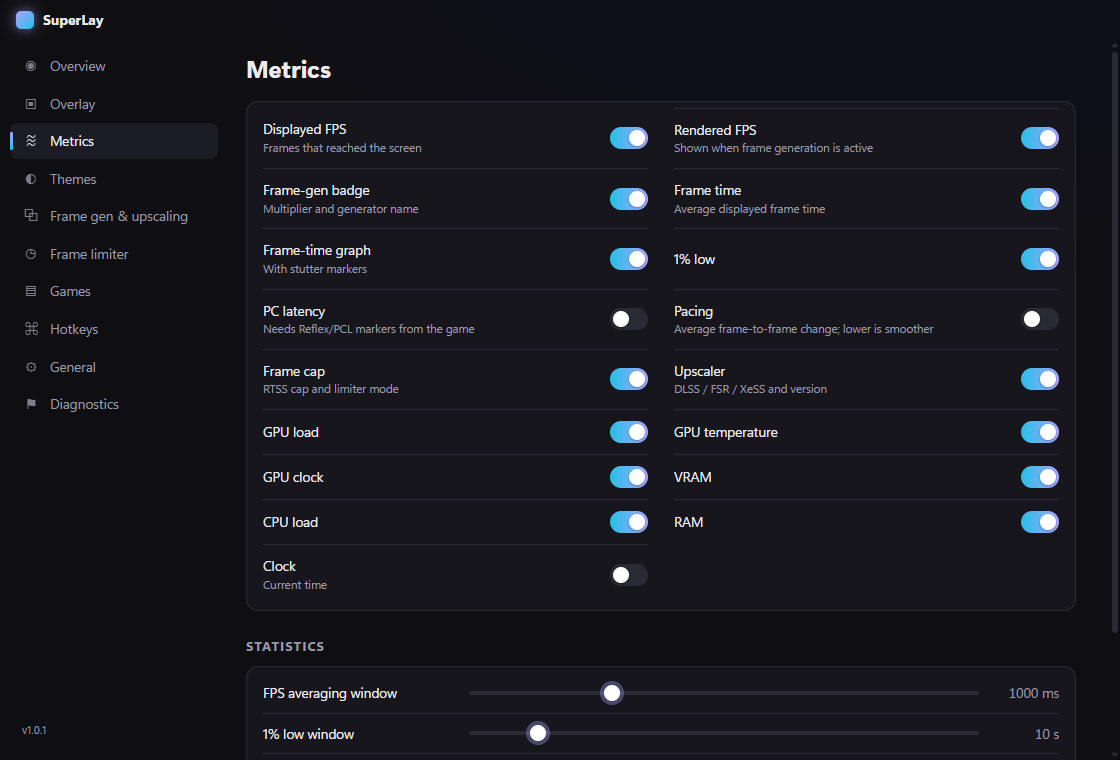
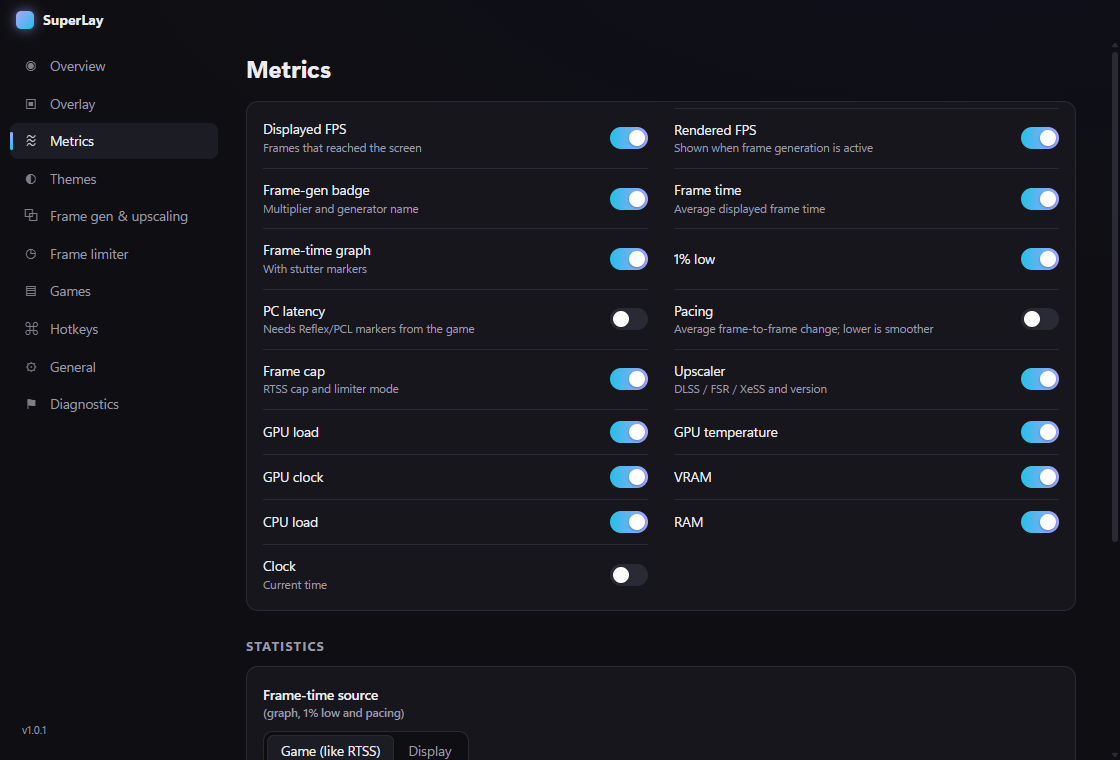
Frame limiter: one UAC prompt per session; RTSS-style frame times
- Elevated RTSS broker started once per session over a named pipe (user-only
  ACL + random token, validated requests, exits with SuperLay) instead of a
  UAC prompt for every cap
- Graph, 1% low and pacing default to present-to-present frame times like
  RTSS; display-change times snap to refresh steps and looked jumpy under a
  cap. Driver FG (AFMF) still uses display timing. Selectable in Metrics.

diff --git a/src/main/rtss.js b/src/main/rtss.js
@@ -2,11 +2,12 @@
 // RivaTuner Statistics Server integration: reads and sets per-game frame-rate caps.
 // RTSS does the in-game hooking (and is tolerated by most anti-cheats); SuperLay only edits its profiles.
 const fs = require('fs');
-const os = require('os');
+const net = require('net');
 const path = require('path');
-const { execFile } = require('child_process');
+const crypto = require('crypto');
+const { execFile, spawn } = require('child_process');
 
-const APPLY_SCRIPT = path.join(__dirname, 'rtss-apply.ps1').replace('app.asar', 'app.asar.unpacked');
+const BROKER_SCRIPT = path.join(__dirname, 'rtss-broker.ps1').replace('app.asar', 'app.asar.unpacked');
 
 // RTSS's SyncLimiter values, in the order of its "Framerate limiter" setting.
 const MODES = { 0: 'async', 1: 'front-edge', 2: 'back-edge' };
@@ -56,33 +57,75 @@ function readProfile(dir, exeName) {
   return { limit: 0, raw: 0, denominator: 1, mode: 'async', modeId: 0, source: 'none' };
 }
 
+// ---------------------------------------------------------------- elevated broker
+// One elevated helper per SuperLay session (one UAC prompt), reached over a named pipe locked to this
+// user and a random token. It exits when SuperLay does. See rtss-broker.ps1.
+const broker = { pipe: null, token: null, starting: null };
+
+function pipeRequest(line, timeoutMs = 10000) {
+  return new Promise((resolve) => {
+    let buf = '', done = false;
+    const finish = (v) => { if (!done) { done = true; clearTimeout(timer); sock.destroy(); resolve(v); } };
+    const sock = net.connect(`\\\\.\\pipe\\${broker.pipe}`);
+    const timer = setTimeout(() => finish(null), timeoutMs);
+    sock.on('connect', () => { if (line === null) finish('connected'); else sock.write(`${line}\n`); });
+    sock.on('data', (d) => { buf += d; const nl = buf.indexOf('\n'); if (nl >= 0) finish(buf.slice(0, nl).trim()); });
+    sock.on('error', () => finish(null));
+  });
+}
+
+async function startBroker(dir, elevated) {
+  broker.pipe = `SuperLay-RTSS-${crypto.randomBytes(8).toString('hex')}`;
+  broker.token = crypto.randomBytes(24).toString('hex');
+  const q = (s) => `'${String(s).replace(/'/g, "''")}'`;
+  // -EncodedCommand sidesteps Start-Process's unquoted -ArgumentList joining (paths with spaces).
+  const inner = `& ${q(BROKER_SCRIPT)} -Dll ${q(path.join(dir, 'RTSSHooks64.dll'))} -Pipe ${q(broker.pipe)} -Token ${q(broker.token)} -ParentPid ${process.pid}`;
+  const psArgs = ['-NoProfile', '-NonInteractive', '-ExecutionPolicy', 'Bypass', '-WindowStyle', 'Hidden', '-EncodedCommand', Buffer.from(inner, 'utf16le').toString('base64')];
+
+  if (elevated) {
+    spawn('powershell.exe', psArgs, { windowsHide: true, stdio: 'ignore' });
+  } else {
+    const outer = `Start-Process powershell.exe -Verb RunAs -WindowStyle Hidden -ArgumentList ${psArgs.map(q).join(',')}`;
+    const r = await run('powershell.exe', ['-NoProfile', '-NonInteractive', '-Command', outer], 120000);
+    if (r.err) {
+      broker.pipe = null;
+      return { ok: false, message: /cancel/i.test(r.stderr) ? 'Administrator permission was declined.' : (r.stderr.trim().split(/\r?\n/)[0] || 'Could not start the RTSS helper.') };
+    }
+  }
+  for (let i = 0; i < 60; i++) {           // the broker needs a moment to compile and open its pipe
+    if (await pipeRequest(null, 500)) return { ok: true };
+    await new Promise((r) => setTimeout(r, 250));
+  }
+  broker.pipe = null;
+  return { ok: false, message: 'The RTSS helper did not start.' };
+}
+
+async function ensureBroker(dir, elevated) {
+  if (broker.pipe && await pipeRequest(null, 1000)) return { ok: true };
+  if (!broker.starting) broker.starting = startBroker(dir, elevated).finally(() => { broker.starting = null; });
+  return broker.starting;
+}
+
+/** True once the elevated helper is running, i.e. caps apply without another prompt. */
+function brokerReady() { return !!broker.pipe; }
+
 /**
- * Writes a cap through RTSS's API. Needs admin; when SuperLay isn't elevated this triggers one UAC prompt.
+ * Writes a cap through RTSS's API via the broker. The first call per session asks for admin
+ * (unless SuperLay is already elevated); later calls are silent.
  * limit 0 removes the cap. Fractional limits (e.g. 59.94) use RTSS's denominator.
  */
 async function applyCap(dir, exeName, { limit, mode }, elevated) {
   const den = Number.isInteger(limit) ? 1 : 100;
-  const resultFile = path.join(os.tmpdir(), `superlay-rtss-${process.pid}-${Date.now()}.json`);
-  const q = (s) => `'${String(s).replace(/'/g, "''")}'`;
-  const inner = `& ${q(APPLY_SCRIPT)} -Dll ${q(path.join(dir, 'RTSSHooks64.dll'))} -ProfileName ${q(exeName)} `
-    + `-Limit ${Math.round(limit * den)} -Denominator ${den} -Mode ${MODE_IDS[mode] ?? -1} -Result ${q(resultFile)}`;
-  const encoded = Buffer.from(inner, 'utf16le').toString('base64');
-  const psArgs = ['-NoProfile', '-NonInteractive', '-ExecutionPolicy', 'Bypass', '-EncodedCommand', encoded];
-
-  let r;
-  if (elevated) {
-    r = await run('powershell.exe', psArgs, 30000);
-  } else {
-    const outer = `$p = Start-Process powershell.exe -Verb RunAs -WindowStyle Hidden -Wait -PassThru -ArgumentList ${psArgs.map(q).join(',')}; exit $p.ExitCode`;
-    r = await run('powershell.exe', ['-NoProfile', '-NonInteractive', '-Command', outer], 120000);
+  const line = () => `${broker.token}|${exeName}|${Math.round(limit * den)}|${den}|${MODE_IDS[mode] ?? -1}`;
+  let reply = null;
+  for (let attempt = 0; attempt < 2 && !reply; attempt++) {
+    const b = await ensureBroker(dir, elevated);
+    if (!b.ok) return b;
+    reply = await pipeRequest(line());
+    if (!reply) broker.pipe = null;        // broker died (killed, sign-out...): start a new one once
   }
-  let res = null;
-  try { res = JSON.parse(fs.readFileSync(resultFile, 'utf8').replace(/^/, '')); fs.unlinkSync(resultFile); } catch { /* no result */ }
-  if (!res) {
-    if (/cancel/i.test(r.stderr)) return { ok: false, message: 'Administrator permission was declined.' };
-    return { ok: false, message: (r.stderr || r.err?.message || 'RTSS update failed.').trim().split(/\r?\n/)[0] };
-  }
-  if (!res.ok) return res;
+  if (!reply) return { ok: false, message: 'Lost contact with the RTSS helper.' };
+  if (reply !== 'ok') return { ok: false, message: reply.replace(/^err\s*/, '') };
   // Trust the file, not RTSS's return codes.
   const now = readProfile(dir, exeName);
   const modeOk = MODE_IDS[mode] === undefined || now.modeId === MODE_IDS[mode];
@@ -123,4 +166,4 @@ function recommendCap({ refresh, vrr = true, sustainedFps = 0, fg = null }) {
   return { cap, reasons };
 }
 
-module.exports = { locate, isRunning, readProfile, applyCap, recommendCap, parseFramerate, MODES };
+module.exports = { locate, isRunning, readProfile, applyCap, brokerReady, recommendCap, parseFramerate, MODES };

diff --git a/src/renderer/settings.html b/src/renderer/settings.html
@@ -93,11 +93,18 @@
         <div class="group grid2" id="metricToggles"></div>
         <h2>Statistics</h2>
         <div class="group">
+          <div class="field">
+            <div class="label">Frame-time source <small class="muted">(graph, 1% low and pacing)</small></div>
+            <div class="seg" data-seg="stats.frametimeSource">
+              <button data-v="present">Game (like RTSS)</button><button data-v="display">Display</button>
+            </div>
+            <small class="muted">Game: time between the frames the game submits, which is what a frame cap flattens. Display: when each frame reached the screen; under v-sync this snaps to refresh steps and looks jumpier even when delivery is smooth. Driver frame generation (AFMF) always uses display timing.</small>
+          </div>
           <div class="slider"><label>FPS averaging window</label><input type="range" min="250" max="3000" step="250" data-bind="stats.fpsWindowMs"><output data-fmt="ms"></output></div>
           <div class="slider"><label>1% low window</label><input type="range" min="3" max="60" step="1" data-bind="stats.lowWindowSec"><output data-fmt="s"></output></div>
           <div class="slider"><label>Graph span</label><input type="range" min="2" max="15" step="1" data-bind="stats.graphSeconds"><output data-fmt="s"></output></div>
         </div>
-        <p class="note">FPS and frame time come from frames that actually reached the display, not from presents. 1% low is the 99th-percentile displayed frame time over the window.</p>
+        <p class="note">FPS counts frames that actually reached the display, so frame generation is counted correctly. 1% low is the 99th-percentile frame time over its window, using the frame-time source above.</p>
       </section>
 
       <!-- ================================================= themes -->
@@ -205,7 +212,7 @@
             <label class="toggle-row"><span>Display uses VRR (FreeSync / G-Sync)<small>Recommendations stay a few fps under the refresh rate</small></span><input type="checkbox" data-bind="limiter.vrr"><i class="sw"></i></label>
             <label class="toggle-row"><span>Show cap target on the frame-time graph</span><input type="checkbox" data-bind="limiter.showTargetLine"><i class="sw"></i></label>
           </div>
-          <p class="note">SuperLay sets caps through RTSS's own profile API, the same one MSI Afterburner uses; RTSS does the in-game limiting. RTSS keeps its profiles under Program Files, so applying asks for administrator permission unless SuperLay already runs as admin. Changes take effect immediately, even mid-game. Turn on <b>Pacing</b> in Metrics to see how steady frames are under the cap.</p>
+          <p class="note">SuperLay sets caps through RTSS's own profile API, the same one MSI Afterburner uses; RTSS does the in-game limiting. RTSS keeps its profiles under Program Files, so the first cap each session asks for administrator permission once (never, if SuperLay runs as admin); a small helper then stays running until SuperLay closes, and it can only change RTSS frame caps. Changes take effect immediately, even mid-game. Turn on <b>Pacing</b> in Metrics to see how steady frames are under the cap.</p>
         </div>
       </section>
 

diff --git a/src/main/presentmon.js b/src/main/presentmon.js
@@ -224,7 +224,7 @@ class PresentMon extends EventEmitter {
    * fgHint: { library: 'DLSS FG'|..., loaded: bool } from module detection.
    * multiplierSetting: 'auto' | 'off' | '2' | '3' | '4'
    */
-  stats(pid, { fpsWindowMs = 1000, lowWindowSec = 10, fgHint = null, multiplierSetting = 'auto' } = {}) {
+  stats(pid, { fpsWindowMs = 1000, lowWindowSec = 10, fgHint = null, multiplierSetting = 'auto', frametimeSource = 'present' } = {}) {
     const ch = this.mainChain(pid);
     if (!ch || !ch.rows.length) return null;
     const rows = ch.rows;
@@ -285,15 +285,20 @@ class PresentMon extends EventEmitter {
     const fgActive = multiplier > 1.25;
     if (!fgActive) { renderedFps = displayedFps; multiplier = 1; if (source !== 'none') source = 'none'; }
 
-    // ---- 1% low + graph from displayed frame times ----
+    // ---- frame times for the graph, 1% low and pacing ----
+    // 'present' (default) is present-to-present, what RTSS shows and what a frame cap flattens. Display-change
+    // times snap to refresh steps under v-sync/composition and jitter even when delivery is smooth.
+    // Driver frame gen (AFMF) never passes through the game's presents, so it always uses display times.
+    const ftSource = frametimeSource === 'present' && genN === 0 ? 'present' : (anyDisplay ? 'display' : 'present');
+    const ftOf = (r) => (ftSource === 'present' ? r.between : r.display);
     const lowFrom = now - lowWindowSec * 1000;
     const times = [];
     for (let i = rows.length - 1; i >= 0 && rows[i].t > lowFrom; i--) {
       const r = rows[i];
-      const v = anyDisplay ? r.display : r.between;
+      const v = ftOf(r);
       if (v !== null && v > 0 && r.type.toLowerCase() !== 'repeated') times.push(v);
     }
-    // Pacing: mean frame-to-frame change in displayed frame time. Steady pacing → near 0 even at low FPS.
+    // Pacing: mean frame-to-frame change in frame time. Steady pacing → near 0 even at low FPS.
     let jitter = 0;
     for (let i = 1; i < times.length; i++) jitter += Math.abs(times[i] - times[i - 1]);
     const pacingMs = times.length > 1 ? jitter / (times.length - 1) : null;
@@ -306,7 +311,7 @@ class PresentMon extends EventEmitter {
     const frames = [];
     for (let i = rows.length - 1; i >= 0 && rows[i].t > since; i--) {
       const r = rows[i];
-      const v = anyDisplay ? r.display : r.between;
+      const v = ftOf(r);
       if (v !== null && v > 0) frames.push([r.t, +v.toFixed(2)]);
     }
     frames.reverse();
@@ -327,6 +332,7 @@ class PresentMon extends EventEmitter {
       latencyMs: latN ? latSum / latN : null,
       pacingMs,
       fg: { active: fgActive, multiplier: +multiplier.toFixed(2), source, name: fgName },
+      frametimeSource: ftSource,
       frameTypeColumn: anyType,
       displayTracked: anyDisplay,
       frames,

diff --git a/test/run.js b/test/run.js
@@ -152,6 +152,30 @@ test('pacing: steady frames ≈ 0, alternating frames show jitter', () => {
   near(s.pacingMs, 8, 0.05, 'jitter');
 });
 
+test('frame-time source: capped game is steady at present, quantized at display (Forza capture)', () => {
+  // 90 fps cap on a 180 Hz display: presents every ~11.1 ms, display changes snap to 5.55 / 11.1 / 16.7 ms.
+  const mk = () => {
+    const pm = new PresentMon(); const rows = []; let t = 0;
+    const disp = [11.11, 11.11, 5.55, 16.67, 11.11, 11.11, 16.67, 5.55];
+    for (let i = 0; i < 900; i++) { t += 11.11; rows.push({ t, between: 11.11 + (i % 3 - 1) * 0.05, display: disp[i % disp.length] }); }
+    feed(pm, rows); return pm;
+  };
+  const p = mk().stats(100, { frametimeSource: 'present' });
+  const d = mk().stats(100, { frametimeSource: 'display' });
+  assert.strictEqual(p.frametimeSource, 'present');
+  assert.ok(p.pacingMs < 0.1, `present pacing ${p.pacingMs}`);
+  assert.ok(d.pacingMs > 3, `display pacing ${d.pacingMs}`);
+  near(p.low1Fps, 90, 1, 'present 1% low stays at the cap');
+  near(p.displayedFps, d.displayedFps, 0.01, 'FPS is display-based either way');
+});
+
+test('frame-time source: driver FG forces display timing', () => {
+  const pm = new PresentMon(); const ft = 1000 / 240, rows = [];
+  for (let i = 0; i < 1000; i++) rows.push({ t: i * ft, type: i % 2 ? 'AMD_AFMF' : 'Application', between: i % 2 ? 0 : ft * 2, display: ft });
+  feed(pm, rows);
+  assert.strictEqual(pm.stats(100, { frametimeSource: 'present' }).frametimeSource, 'display');
+});
+
 const rtss = require('../src/main/rtss');
 test('RTSS profile parsing (real Forza profile shape)', () => {
   const p = rtss.parseFramerate('[OSD]\nEnableOSD=1\n[Framerate]\nLimit=5994\nLimitDenominator=100\nLimitTime=0\nSyncLimiter=1\n[Hooking]\nEnableHooking=1\n');

diff --git a/src/renderer/settings.js b/src/renderer/settings.js
@@ -235,7 +235,8 @@
     $('#rtssPip').className = `pip ${r.installed && r.running ? 'ok' : r.installed ? 'warn' : 'bad'}`;
     $('#rtssText').textContent = !r.installed
       ? 'RTSS isn\'t installed. It\'s free; SuperLay uses it to cap frame rates inside the game.'
-      : `Version ${r.version}${r.running ? ', running.' : ' — installed but not running. Start RTSS for caps to take effect.'}${r.elevated ? '' : ' Applying a cap will ask for administrator permission.'}`;
+      : `Version ${r.version}${r.running ? ', running.' : ' — installed but not running. Start RTSS for caps to take effect.'}`
+        + (r.elevated || r.brokerReady ? ' Caps apply instantly.' : ' The first cap you apply this session asks for administrator permission once; after that they apply instantly.');
     const btns = r.installed ? '' : '<button class="btn" data-a="get">Get RTSS</button>';
     if ($('#rtssBtns').dataset.h !== btns) { $('#rtssBtns').innerHTML = btns; $('#rtssBtns').dataset.h = btns; }
     $('#limiterBody').style.display = r.installed ? '' : 'none';
@@ -273,7 +274,7 @@
     if (!limiterExe) return;
     const btn = limit === 0 ? $('#capRemove') : $('#capApply');
     const msg = $('#capMsg');
-    msg.className = 'note'; msg.textContent = lastRtss?.elevated ? 'Applying…' : 'Approve the Windows permission prompt to apply…';
+    msg.className = 'note'; msg.textContent = lastRtss?.elevated || lastRtss?.brokerReady ? 'Applying…' : 'Approve the Windows permission prompt (once per session)…';
     btn.disabled = true;
     try {
       const res = await api.rtssApply({ exe: limiterExe, limit, mode: limiterMode });

diff --git a/src/main/main.js b/src/main/main.js
@@ -165,6 +165,7 @@ function computeFrame() {
     const fgHint = fgDet ? { library: fgDet.label, loaded: fgDet.state !== 'idle' } : null;
     fps = pm.stats(t.pid, {
       fpsWindowMs: S.stats.fpsWindowMs, lowWindowSec: S.stats.lowWindowSec, fgHint, multiplierSetting: S.framegen.inGameMultiplier,
+      frametimeSource: S.stats.frametimeSource,
     });
     // Lossless Scaling presents its own window: its rate is what you see, the game's is what's rendered.
     if (fps && S.framegen.detectLosslessScaling) {
@@ -353,6 +354,7 @@ async function rtssStatus(exeOverride) {
     version: R.install?.version || '',
     running: R.running,
     elevated: !!helper.last?.admin,
+    brokerReady: rtss.brokerReady(),
     exe,
     isCurrentGame: !!exe && exe === exeOf(state.target),
     profile: R.install && exe ? rtss.readProfile(R.install.dir, exe) : null,

diff --git a/src/main/settings.js b/src/main/settings.js
@@ -44,6 +44,7 @@ const DEFAULTS = {
     fpsWindowMs: 1000,
     lowWindowSec: 10,
     graphSeconds: 5,
+    frametimeSource: 'present', // present (like RTSS) | display
   },
   theme: {
     mode: 'auto',              // auto (cover art) | preset | custom
